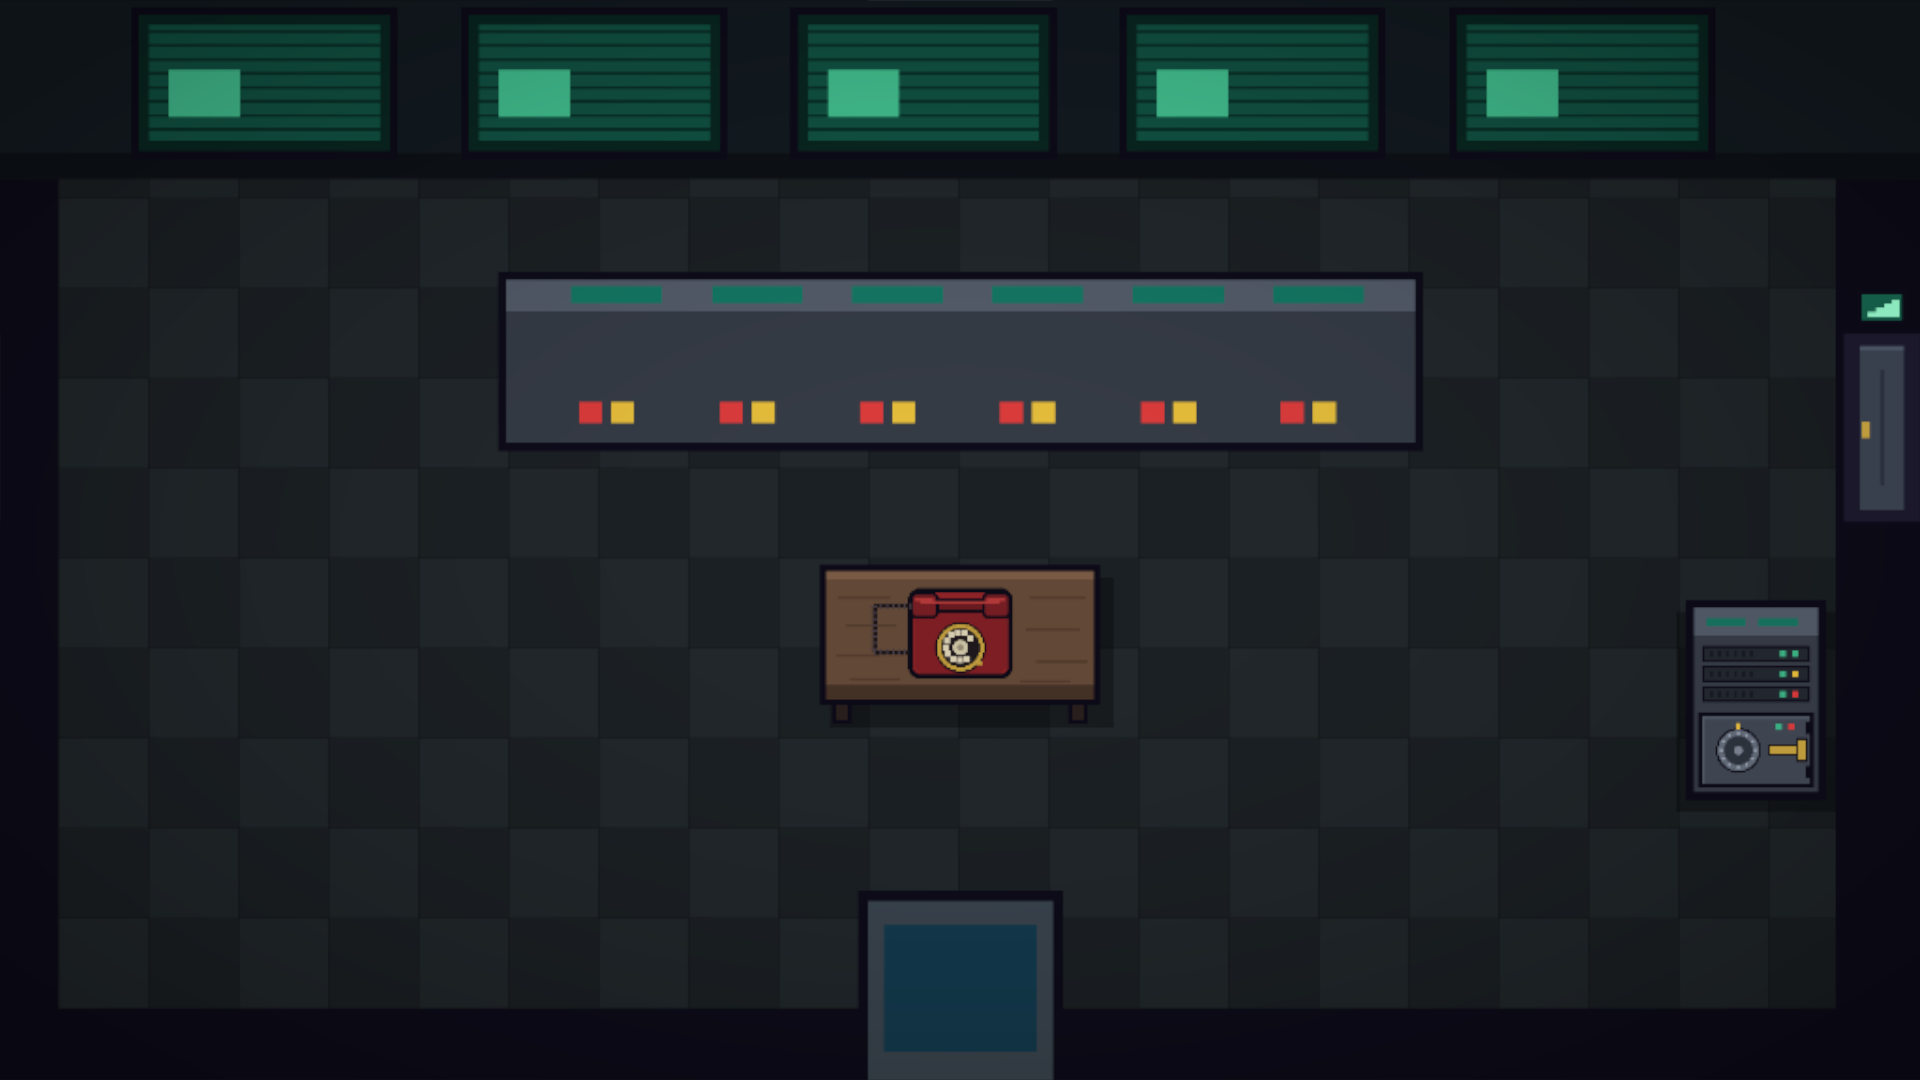
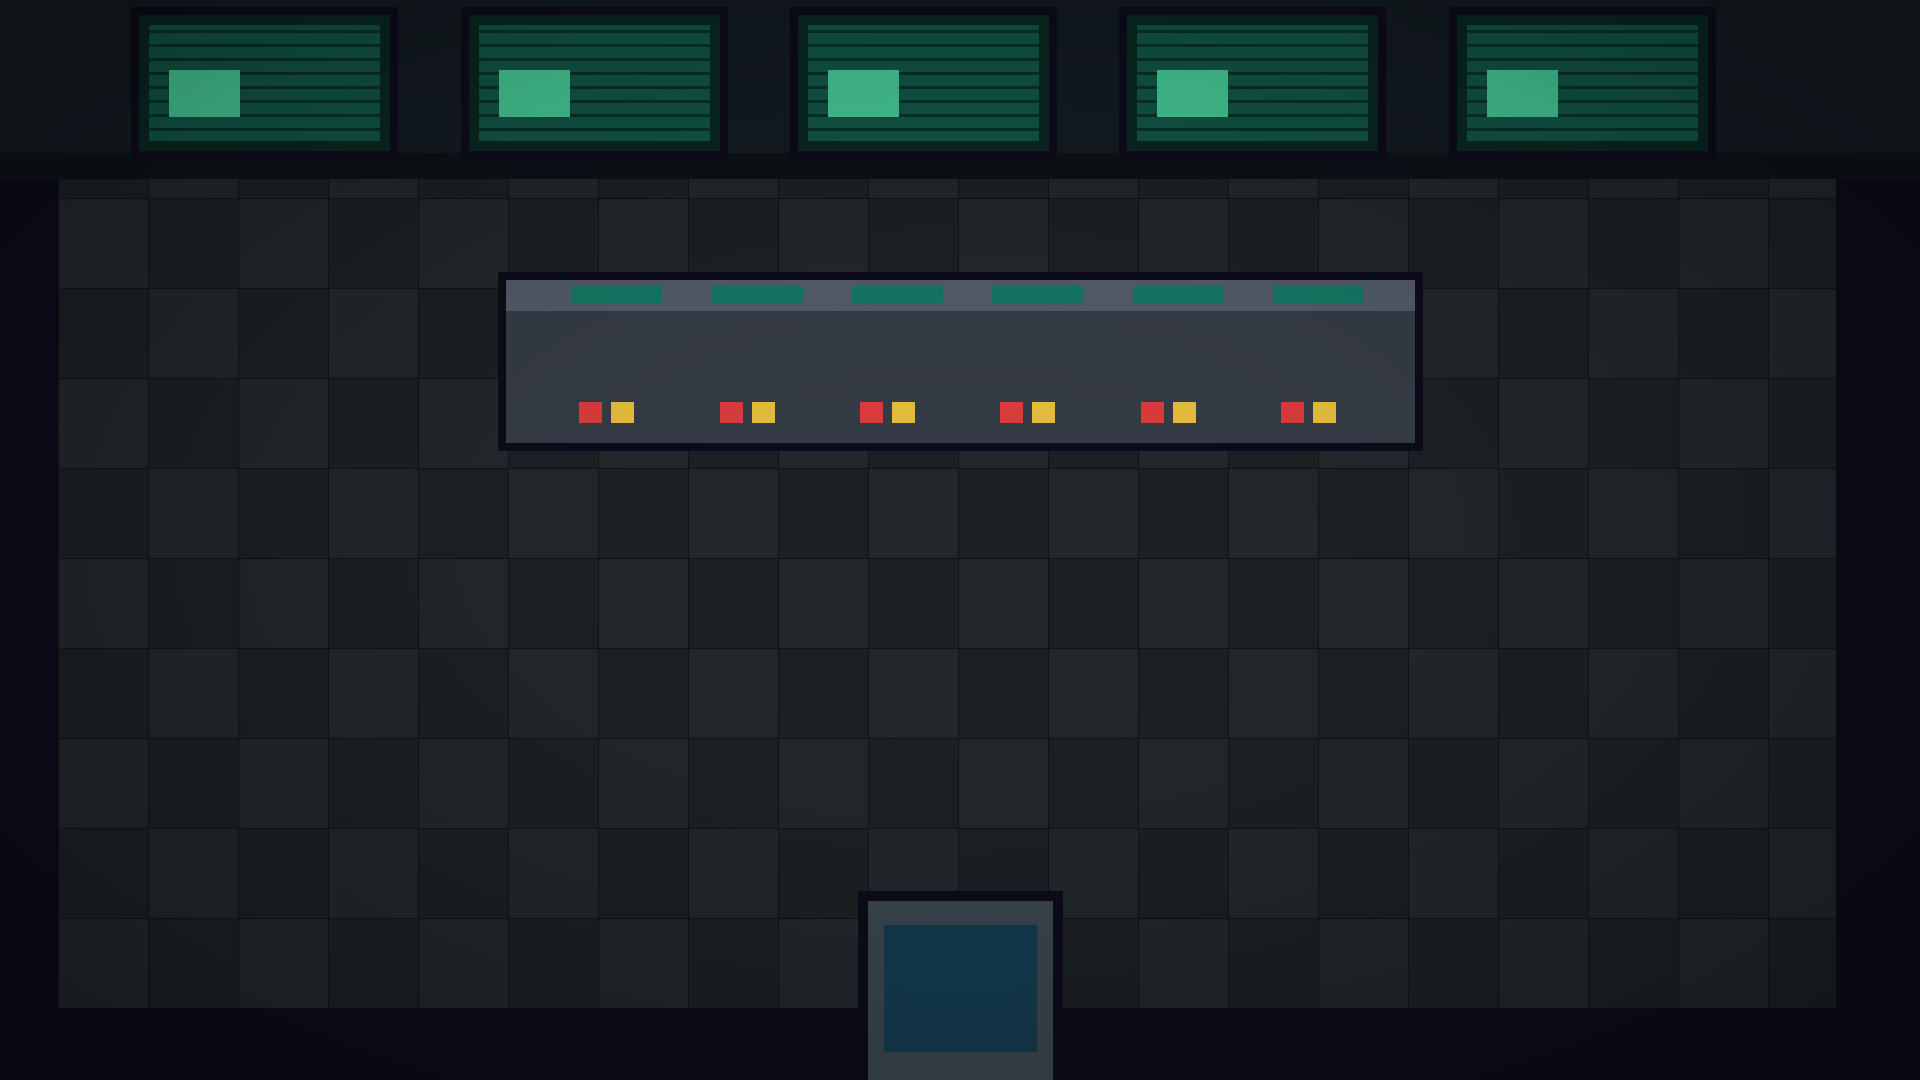
Hook up interactables to pulled remote scene objects (CCTV4, Brangkas, PintuExit, MejaTelephone)

diff --git a/Assets/Scripts/Mission/TelephoneInteractable.cs b/Assets/Scripts/Mission/TelephoneInteractable.cs
@@ -1,0 +1,29 @@
+using UnityEngine;
+
+/// <summary>
+/// Meja tengah dengan telepon kabel darurat dan buku kontak kepolisian (Misi 4).
+/// </summary>
+public class TelephoneInteractable : ProximityInteractable
+{
+    protected override string DefaultPrompt => "Periksa Meja & Telepon Kabel";
+
+    protected override void Interact()
+    {
+        var ui = GameUI.Instance;
+        if (ui == null) return;
+
+        ui.ShowDocModal(
+            "TELEPON KABEL & BUKU KONTAK DARURAT",
+            "[STATUS: SAMBUNGAN DARURAT KEPOLISIAN]",
+            "Di atas meja operator terdapat telepon kabel merah yang masih berfungsi dan buku kontak darurat sekolah.\n\n" +
+            "<color=#FFC43D><b>Catatan Saluran Darurat:</b></color>\n" +
+            "Kode Akses Cepat Kepolisian: <color=#2ED573><b>9110</b></color>\n\n" +
+            "Terdengar nada panggil tersambung ke stasiun polisi: <i>'Unit patroli kepolisian telah dikirimkan ke sekolah!'</i>\n\n" +
+            "<i>Petunjuk: Periksa rekaman Kamera 04 di monitor CCTV untuk mencari tahu penyebab wabah!</i>",
+            new Color32(255, 196, 61, 255),
+            () =>
+            {
+                ui.ShowToast("Telepon kabel aktif. Kode akses kepolisian 9110 tersambung!", false, 3.0f);
+            });
+    }
+}
